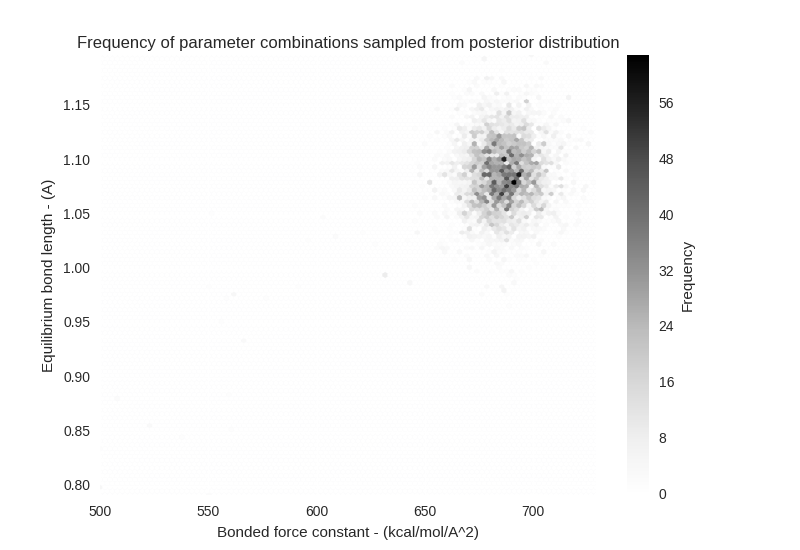
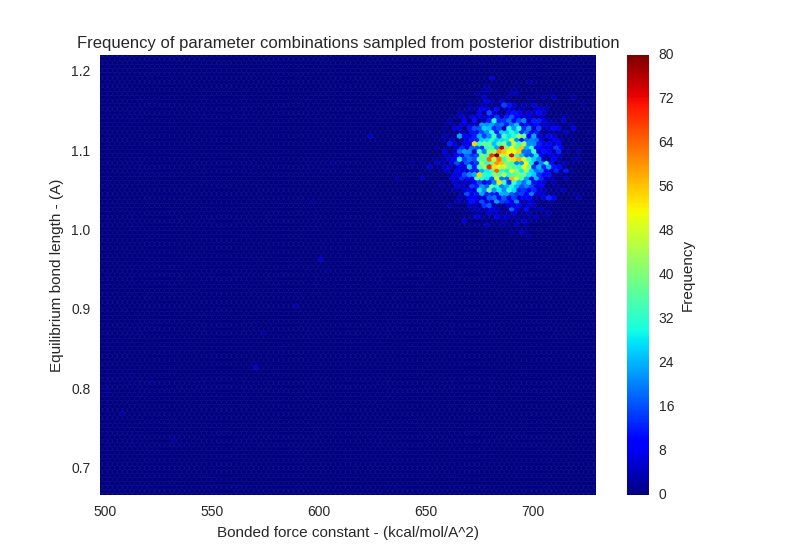
Shrink axes on posterior dist

diff --git a/single-molecule-property-generation/graph_bl.py b/single-molecule-property-generation/graph_bl.py
@@ -235,11 +235,10 @@ posterior,probs = sampler([[1.0920405895833334,0.00090201196735599997],[0.000902
 x = np.array([a[0] for a in posterior])
 y = np.array([a[1] for a in posterior])
 
-print x
-print y
 
 fig, ax = plt.subplots()
-hb = ax.hexbin(x, y)
+hb = ax.hexbin(x, y, cmap=cm.jet)
+ax.axis([x.min(), x.max(), y.min(), y.max()])
 ax.set_xlabel('Bonded force constant - (kcal/mol/A^2)')
 ax.set_ylabel('Equilibrium bond length - (A)')
 ax.set_title('Frequency of parameter combinations sampled from posterior distribution')
